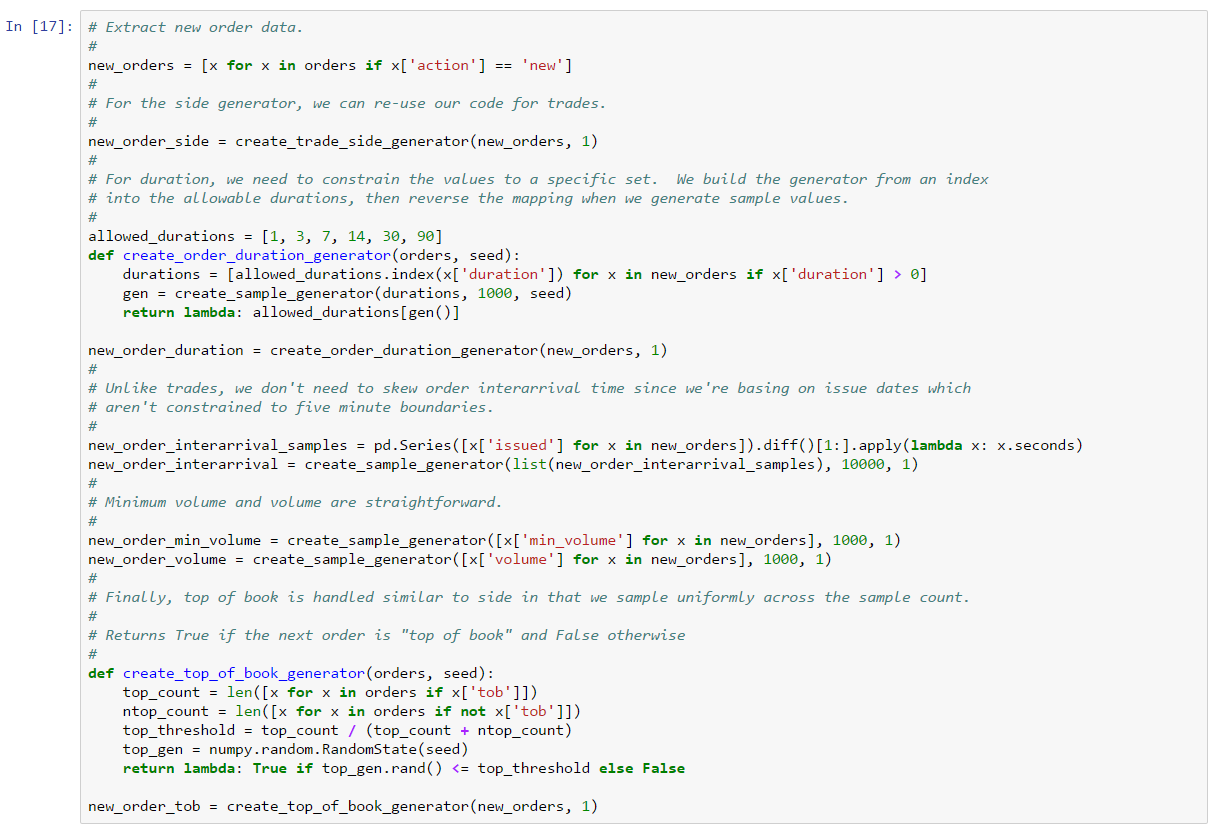
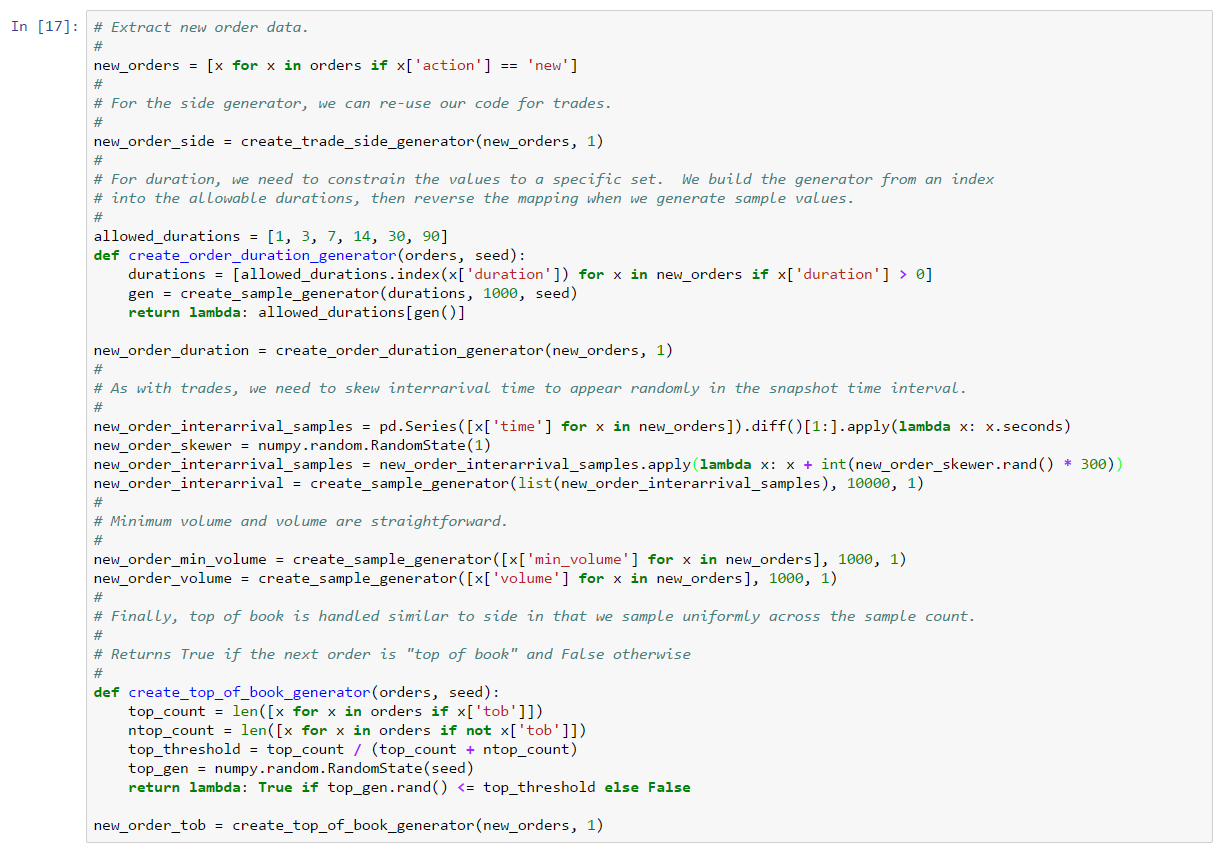
fix example 15

diff --git a/chapters/03-market-making.md b/chapters/03-market-making.md
@@ -354,7 +354,7 @@ As with trades, we'll derive a generator for each of these properties, then asse
 
 ![New Order Property Generators](img/ex15_cell10.PNG)
 
-Note that we've created an order duration generator which constrains output to a specific set of values.  This was done to much EVE's rules for order duration.  Likewise, we've created a "top of book" generator which operates similar to a side generator in that it randomly generates one of two values based on a random value sampled against a ratio.  Finally, note that it is not necessary to skew inter-arrival samples as we did with trades.  This is because the sample data is based on issue time which is not constrained to five minute timestamps.  We can assemble our generators into a random new order generator:
+Note that we've created an order duration generator which constrains output to a specific set of values.  This was done to much EVE's rules for order duration.  Likewise, we've created a "top of book" generator which operates similar to a side generator in that it randomly generates one of two values based on a random value sampled against a ratio.  We can assemble our generators into a random new order generator:
 
 ![Random New Order Generators](img/ex15_cell11.PNG)
 
